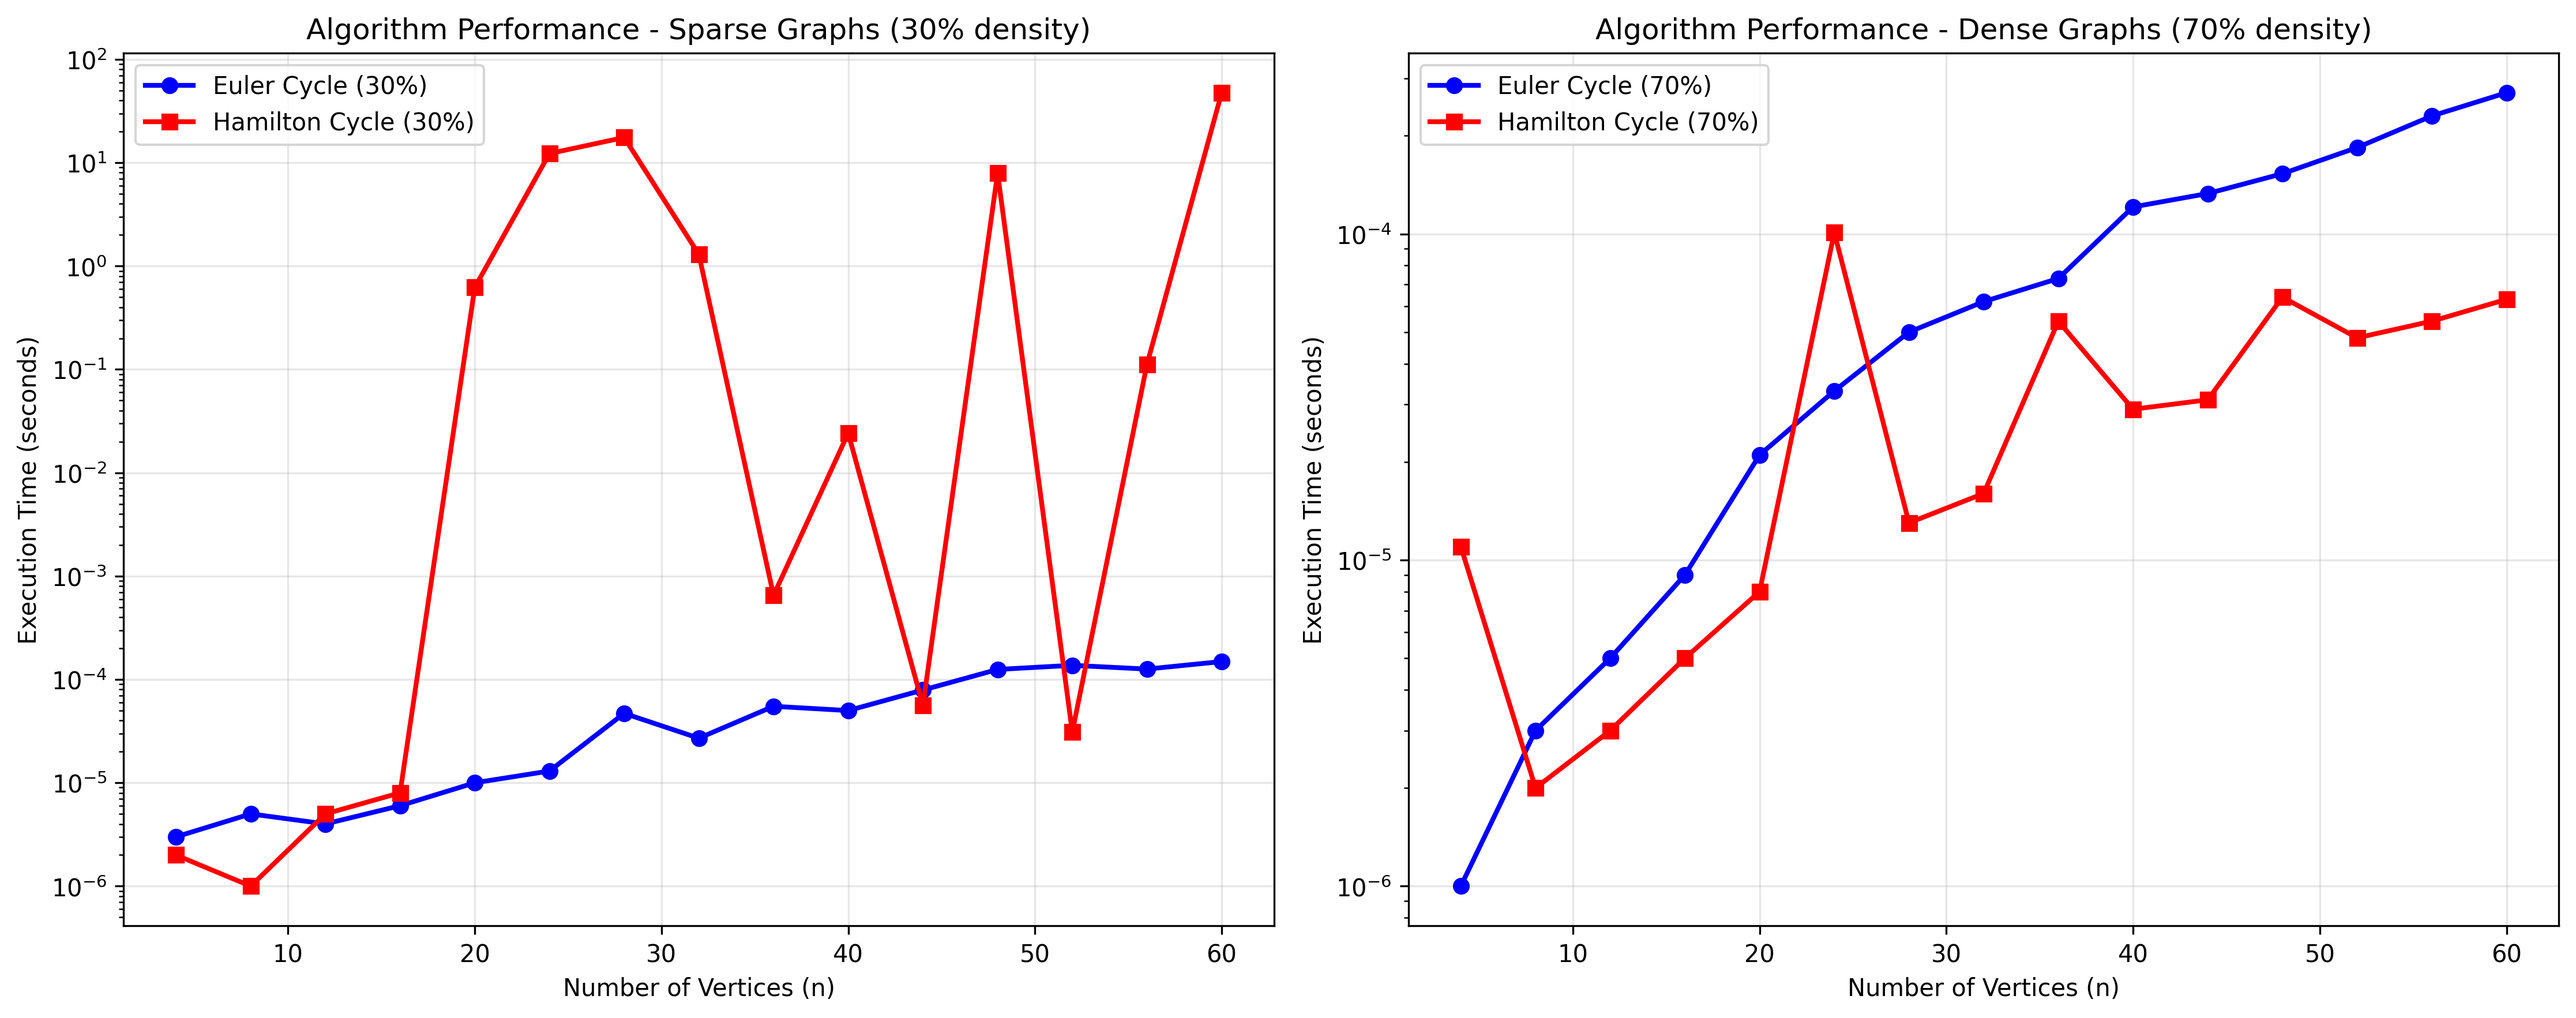
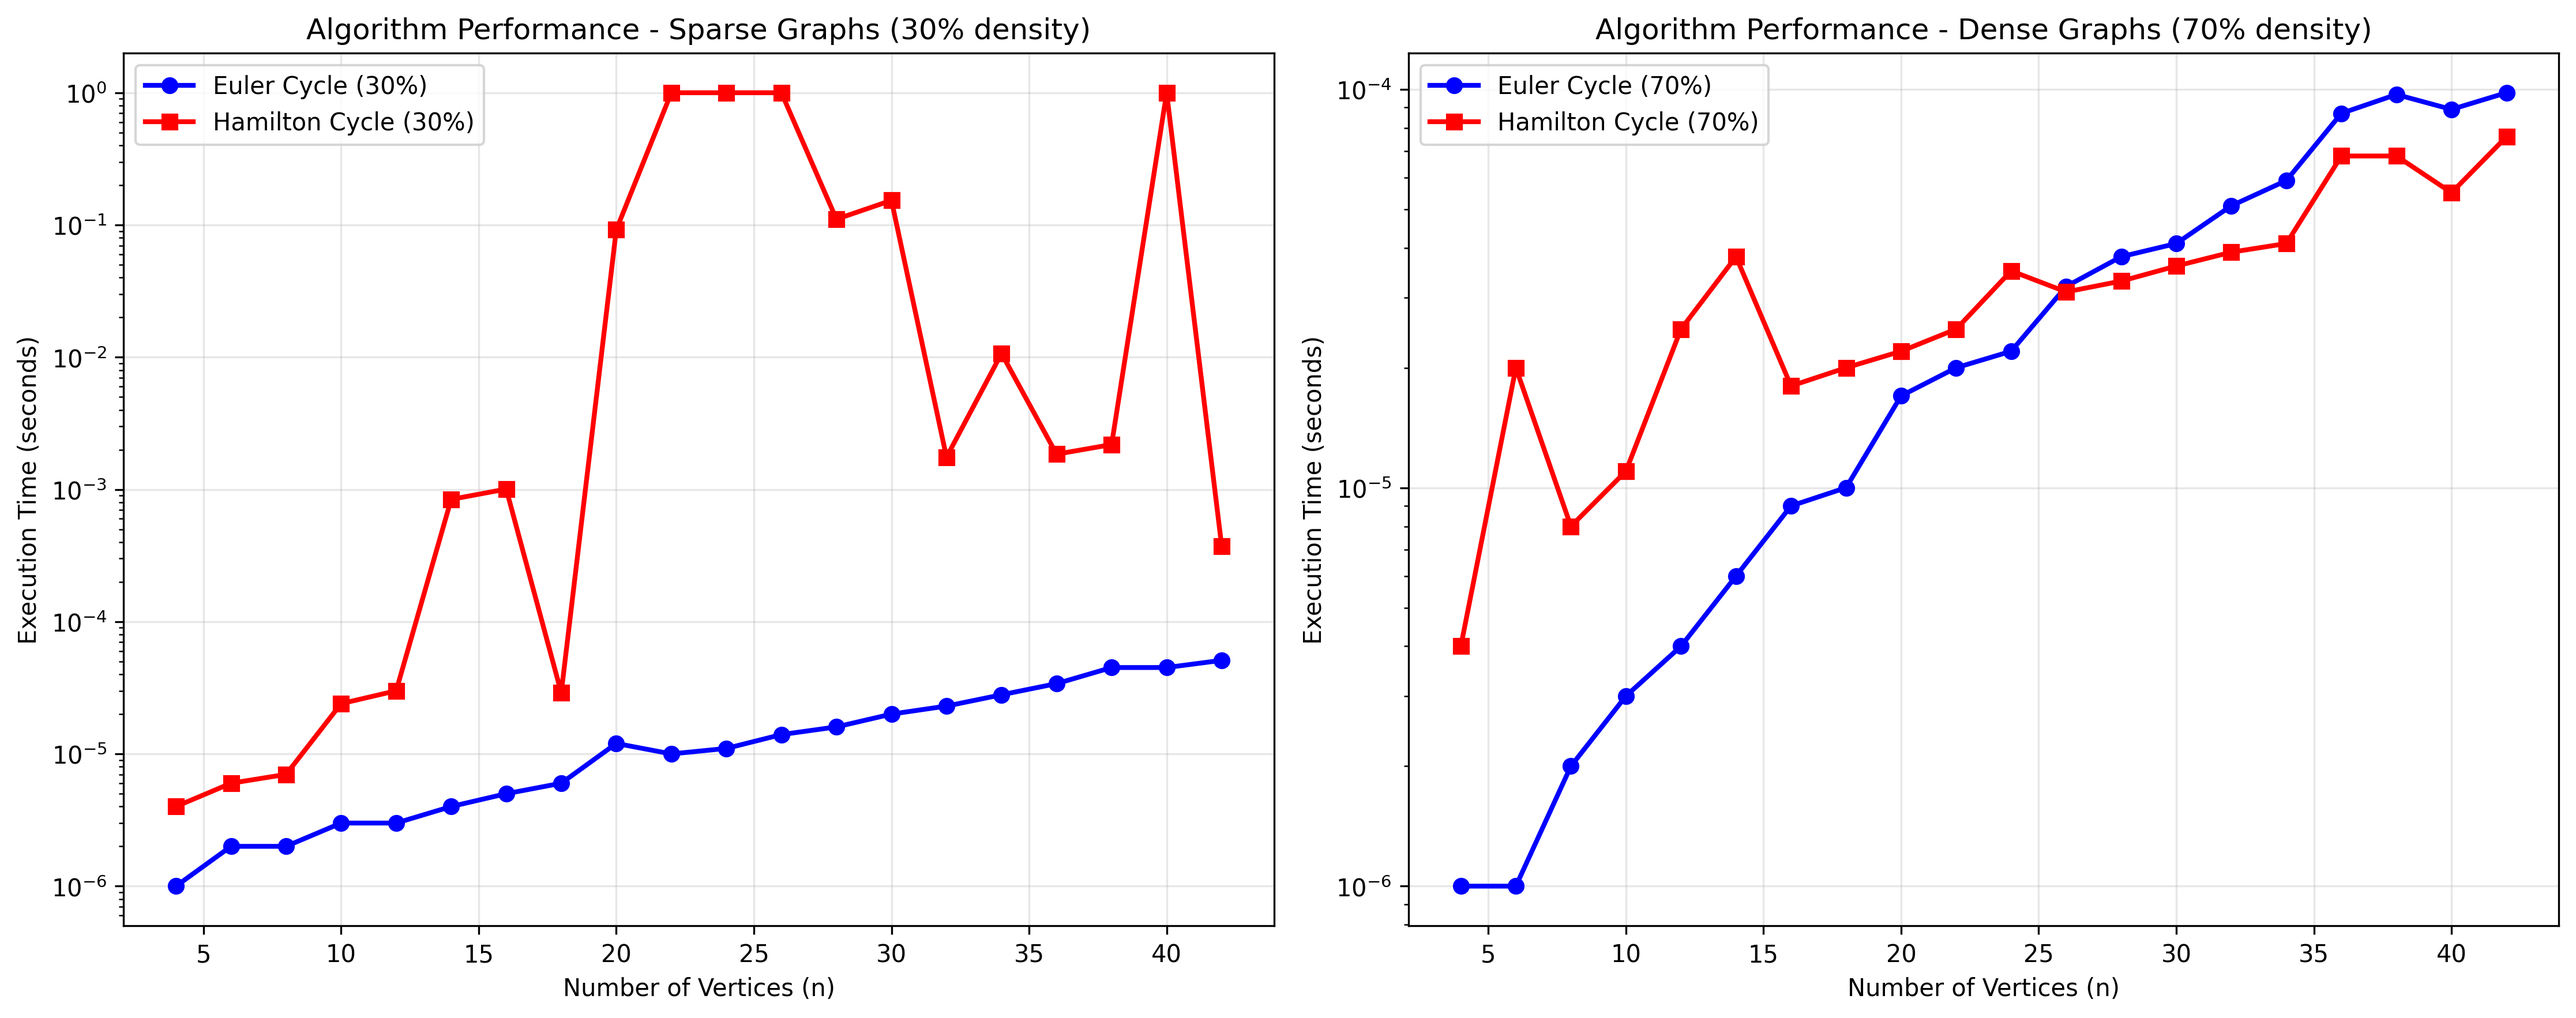
Data used for report 4 task 1

diff --git a/lab/4+_backtracking_algorithms/src/main.c b/lab/4+_backtracking_algorithms/src/main.c
@@ -1,5 +1,41 @@
 #include "graph.h"
 
+#define TIMEOUT_SECONDS 1.0  // 1 second timeout
+#define NUM_RUNS 3           // Multiple runs for averaging
+
+double measure_algorithm_time(Graph* graph, bool is_euler) {
+    double total_time = 0.0;
+    int successful_runs = 0;
+    
+    for (int run = 0; run < NUM_RUNS; run++) {
+        clock_t start = clock();
+        IntList* result = NULL;
+        
+        if (is_euler) {
+            result = find_euler_cycle_simple(graph);
+        } else {
+            result = find_hamilton_cycle_with_timeout(graph, TIMEOUT_SECONDS);
+        }
+        
+        clock_t end = clock();
+        double time_taken = get_time_diff(start, end);
+        
+        if (result != NULL || time_taken >= TIMEOUT_SECONDS) {
+            total_time += time_taken;
+            successful_runs++;
+        }
+        
+        if (result) free_list(result);
+        
+        // Break early if timeout reached
+        if (time_taken >= TIMEOUT_SECONDS) {
+            return TIMEOUT_SECONDS; // Return timeout value
+        }
+    }
+    
+    return successful_runs > 0 ? total_time / successful_runs : TIMEOUT_SECONDS;
+}
+
 int main() {
     printf("=== Task I: Euler and Hamilton Cycle Algorithms ===\n\n");
     
@@ -11,14 +47,14 @@ int main() {
     
     fprintf(results_file, "vertices,euler_sparse_time,hamilton_sparse_time,euler_dense_time,hamilton_dense_time\n");
     
-    printf("Measuring execution times for 15 measurement points...\n");
+    printf("Measuring execution times (%.1fs timeout)...\n", TIMEOUT_SECONDS);
     printf("Vertices\tEuler(30%%)\tHamilton(30%%)\tEuler(70%%)\tHamilton(70%%)\n");
     printf("--------\t----------\t-------------\t----------\t-------------\n");
     
-    // 15 measurement points
-    int vertices_sizes[] = {4, 8, 12, 16, 20, 24, 28, 32, 36, 40, 44, 48, 52, 56, 60};
+    // Smaller vertex sizes for more reliable results
+    int vertices_sizes[] = {4, 6, 8, 10, 12, 14, 16, 18, 20, 22, 24, 26, 28, 30, 32, 34, 36, 38, 40, 42};
     
-    for (int i = 0; i < 15; i++) {
+    for (int i = 0; i < 20; i++) {
         int n = vertices_sizes[i];
         
         // Generate sparse graph (30% edge density)
@@ -27,46 +63,35 @@ int main() {
         // Generate dense graph (70% edge density)
         Graph* dense_graph = generate_eulerian_hamiltonian_graph(n, 0.7);
         
-        print_graph(sparse_graph);
-        print_graph(dense_graph);
-
-        // Measure Euler cycle time for sparse graph
-        clock_t start = clock();
-        IntList* euler_sparse = find_euler_cycle_simple(sparse_graph);
-        clock_t end = clock();
-        double euler_sparse_time = get_time_diff(start, end);
+        printf("Testing %d vertices... ", n);
+        fflush(stdout);
         
-        // Measure Hamilton cycle time for sparse graph
-        start = clock();
-        IntList* hamilton_sparse = find_hamilton_cycle_simple(sparse_graph);
-        end = clock();
-        double hamilton_sparse_time = get_time_diff(start, end);
-        
-        // Measure Euler cycle time for dense graph
-        start = clock();
-        IntList* euler_dense = find_euler_cycle_simple(dense_graph);
-        end = clock();
-        double euler_dense_time = get_time_diff(start, end);
-        
-        // Measure Hamilton cycle time for dense graph
-        start = clock();
-        IntList* hamilton_dense = find_hamilton_cycle_simple(dense_graph);
-        end = clock();
-        double hamilton_dense_time = get_time_diff(start, end);
+        // Measure times with averaging and timeout protection
+        double euler_sparse_time = measure_algorithm_time(sparse_graph, true);
+        double hamilton_sparse_time = measure_algorithm_time(sparse_graph, false);
+        double euler_dense_time = measure_algorithm_time(dense_graph, true);
+        double hamilton_dense_time = measure_algorithm_time(dense_graph, false);
         
         // Print results
-        printf("%d\t\t%.6f\t%.6f\t\t%.6f\t%.6f\n", 
-               n, euler_sparse_time, hamilton_sparse_time, euler_dense_time, hamilton_dense_time);
+        printf("Done\n");
+        printf("%d\t\t%.6f\t", n, euler_sparse_time);
+        if (hamilton_sparse_time >= TIMEOUT_SECONDS) {
+            printf("TIMEOUT\t\t");
+        } else {
+            printf("%.6f\t\t", hamilton_sparse_time);
+        }
+        printf("%.6f\t", euler_dense_time);
+        if (hamilton_dense_time >= TIMEOUT_SECONDS) {
+            printf("TIMEOUT\n");
+        } else {
+            printf("%.6f\n", hamilton_dense_time);
+        }
         
         // Save to CSV file
         fprintf(results_file, "%d,%.6f,%.6f,%.6f,%.6f\n", 
                 n, euler_sparse_time, hamilton_sparse_time, euler_dense_time, hamilton_dense_time);
         
         // Clean up memory
-        if (euler_sparse) free_list(euler_sparse);
-        if (hamilton_sparse) free_list(hamilton_sparse);
-        if (euler_dense) free_list(euler_dense);
-        if (hamilton_dense) free_list(hamilton_dense);
         free_graph(sparse_graph);
         free_graph(dense_graph);
     }

diff --git a/lab/4+_backtracking_algorithms/src/find_hamilton.c b/lab/4+_backtracking_algorithms/src/find_hamilton.c
@@ -3,10 +3,19 @@
 static IntList* V; // lista zawierająca odwiedzone wierzchołki
 static int start_vertex;
 static bool cycle_found;
+static clock_t start_time;
+static double timeout_seconds;
 
 // Hamilton(v) - follows pseudocode exactly
 void hamilton(Graph* graph, int v) {
     if (cycle_found) return;
+    
+    // Check for timeout
+    clock_t current_time = clock();
+    double elapsed = get_time_diff(start_time, current_time);
+    if (elapsed >= timeout_seconds) {
+        return; // Exit due to timeout
+    }
     
     // V.Add(v);
     add_to_list(V, v);
@@ -40,6 +49,33 @@ IntList* find_hamilton_cycle_simple(Graph* graph) {
     V = create_list(graph->vertices + 1);
     cycle_found = false;
     start_vertex = 0;
+    start_time = clock();
+    timeout_seconds = 2.0; // 2 second timeout
+    
+    hamilton(graph, start_vertex);
+    
+    if (cycle_found) {
+        IntList* result = create_list(V->size);
+        for (int i = 0; i < V->size; i++) {
+            add_to_list(result, V->items[i]);
+        }
+        free_list(V);
+        return result;
+    }
+    
+    free_list(V);
+    return NULL;
+}
+
+// Find Hamilton cycle with configurable timeout
+IntList* find_hamilton_cycle_with_timeout(Graph* graph, double timeout_sec) {
+    if (graph->vertices < 3) return NULL;
+    
+    V = create_list(graph->vertices + 1);
+    cycle_found = false;
+    start_vertex = 0;
+    start_time = clock();
+    timeout_seconds = timeout_sec;
     
     hamilton(graph, start_vertex);
     

diff --git a/lab/4+_backtracking_algorithms/src/graph.h b/lab/4+_backtracking_algorithms/src/graph.h
@@ -50,6 +50,7 @@ void euler(Graph* graph, int v, bool **visited_edges);
 
 // Simple Hamilton cycle finder (find_hamilton.c)
 IntList* find_hamilton_cycle_simple(Graph* graph);
+IntList* find_hamilton_cycle_with_timeout(Graph* graph, double timeout_sec);
 void hamilton(Graph* graph, int v);
 
 // Timing functions
